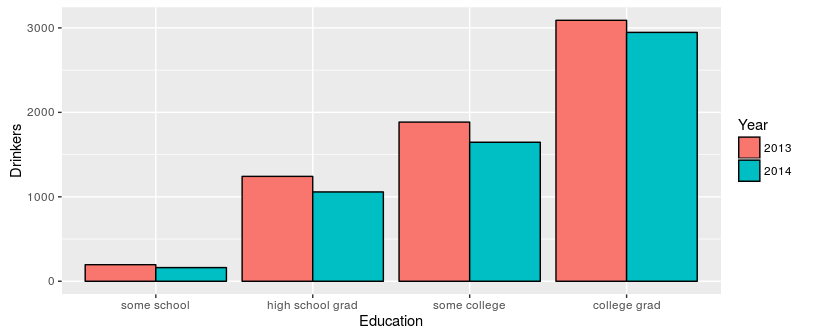
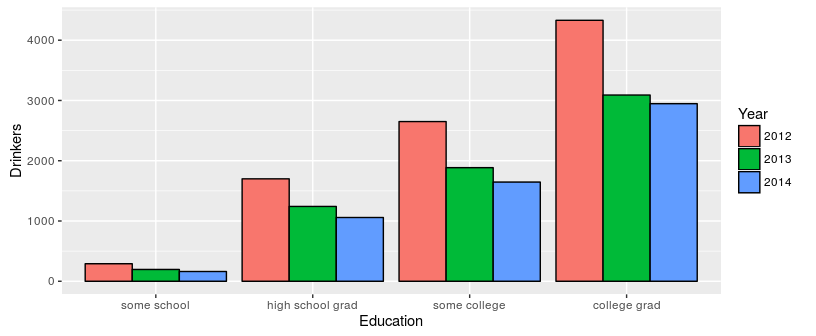
Adds 2012 to the side-by-side bar plot comparisons of smoiking and drinking by education level and year.

diff --git a/sql_examples.md b/sql_examples.md
@@ -105,13 +105,13 @@ ggplot(data=rs, aes(x=Education, y=Smokers, fill=Education)) +
 
 ## Smokers by Education Level and Year
 
-How has smoking changed from 2013 to 2014?
+How has smoking changed from 2012 to 2014?
 
 
 ```r
 sql <- "SELECT IYEAR AS Year, X_EDUCAG AS Education, count(USENOW3) AS Smokers
         FROM brfss 
-        WHERE (IYEAR = 2014 OR IYEAR = 2013)
+        WHERE (IYEAR = 2014 OR IYEAR = 2013 OR IYEAR = 2012)
               AND X_STATE = 53 
               AND (USENOW3 = 1 OR USENOW3 = 2) 
               AND X_EDUCAG <= 4 
@@ -180,13 +180,13 @@ ggplot(data=rs, aes(x=Education, y=Drinkers, fill=Education)) +
 
 ## Drinkers by Education Level and Year
 
-Let's see how drinking in 2013 compares to 2014.
+Let's see how drinking compares from 2012 to 2014.
 
 
 ```r
 sql <- "SELECT IYEAR AS Year, X_EDUCAG AS Education, count(DRNKANY5) AS Drinkers 
         FROM brfss 
-        WHERE (IYEAR = 2014 OR IYEAR = 2013)
+        WHERE (IYEAR = 2014 OR IYEAR = 2013 OR IYEAR = 2012)
               AND X_STATE = 53 
               AND DRNKANY5 = 1 
               AND X_EDUCAG <= 4 
@@ -227,7 +227,7 @@ sql <- "SELECT IYEAR as Year, count(USENOW3) AS Smokers
 rs <- dbGetQuery(con, sql)
 rs$Year <- factor(rs$Year)
 smokers <- rs
-head(smokers)
+tail(smokers)
 ```
 
 ```
@@ -254,7 +254,7 @@ sql <- "SELECT IYEAR as Year, count(DRNKANY5) AS Drinkers
 rs <- dbGetQuery(con, sql)
 rs$Year <- factor(rs$Year)
 drinkers <- rs
-head(drinkers)
+tail(drinkers)
 ```
 
 ```
@@ -271,7 +271,7 @@ We can compare smokers and drinkers by merging the two datasets.
 
 ```r
 consumers <- merge(smokers, drinkers, "Year")
-head(consumers)
+consumers
 ```
 
 ```
